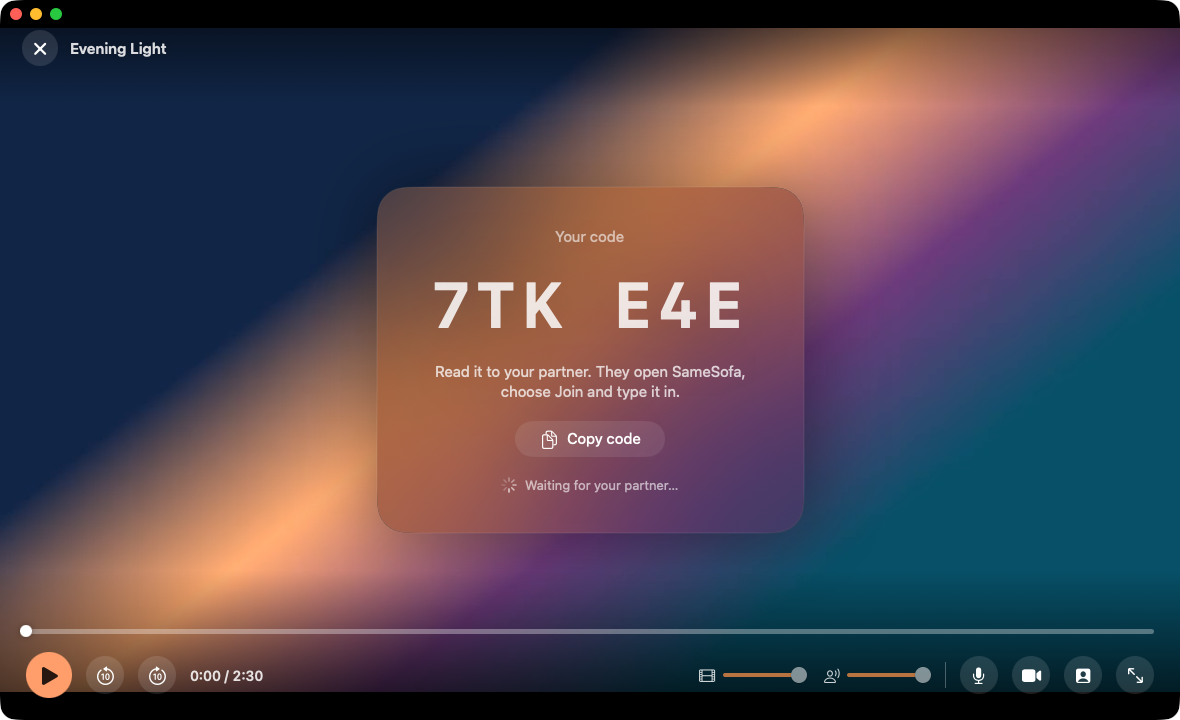
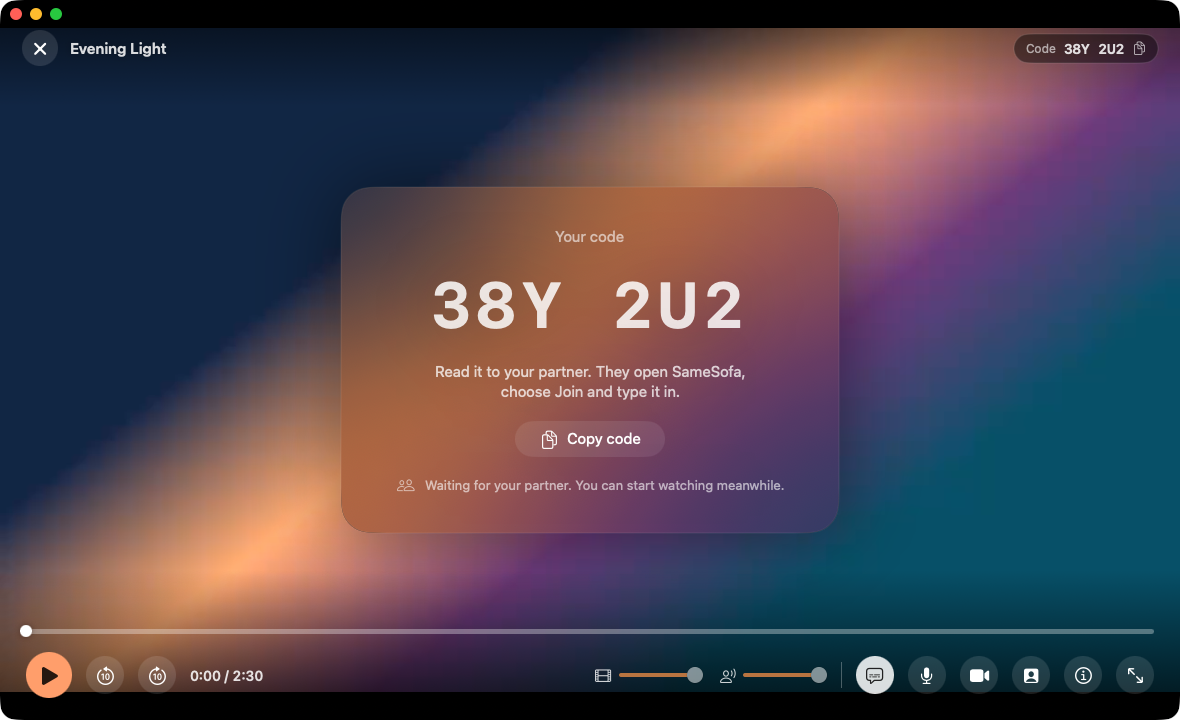
Version 1.2.0: README, screenshots, build script, CI

diff --git a/README.md b/README.md
@@ -17,9 +17,16 @@ hear each other.
 - **Video call bubble** over the film: drag it anywhere, make it bigger or
   smaller, hide it. Mute and camera-off buttons. Controls fade away while the
   film plays.
-- **No echo** of the film through the other person's microphone: the film, the
-  voice and the microphone all go through Apple's voice processing (details
-  below), with separate film and voice volume sliders.
+- **The film at full quality.** Its sound goes straight from the player to the
+  Mac's sound output, bit for bit as decoded; nothing of the call touches it.
+  Surround tracks are folded down by macOS with the standard coefficients.
+- **No echo** of the film through the other person's microphone: with
+  speakers, SameSofa removes the film and your partner's voice from your
+  microphone itself (WebRTC's AEC3, details below); with headphones, detected
+  automatically, that isn't needed. Separate film and voice volume sliders.
+- **Damaged files repaired.** Films whose video timing information is missing
+  (frames would jump back and forth) are fixed on the host before sharing,
+  without re-encoding.
 - **Private by design**: no accounts, no analytics, nothing stored on a server.
 
 ![Joined and ready to play](docs/screenshots/guest-joined.png)
@@ -34,6 +41,11 @@ hear each other.
 | ![Preparing an MKV while the code is shown](docs/screenshots/preparing.png) | ![The guest sees the host's progress](docs/screenshots/guest-preparing.png) |
 
 ![A converted MKV playing with its subtitles](docs/screenshots/playing-subtitles.png)
+
+| | |
+|---|---|
+| ![Watching alone while waiting: the code moves to a chip; the ⓘ button shows what is being played and how](docs/screenshots/quality.png) | ![Acknowledgements](docs/screenshots/acknowledgements.png) |
+| ![Settings](docs/screenshots/settings.png) | ![About](docs/screenshots/about.png) |
 
 *(Screenshots use a generated test film and a generated stand-in camera
 picture.)*
@@ -72,8 +84,10 @@ picture.)*
 - Either of you can press **Play together**, pause, or skip. Move the mouse to
   bring the controls back. Double-click the film (or press **F**) for full
   screen. **Space** plays/pauses, **←/→** skip 10 seconds, **M** mutes you.
-- Watching on laptop speakers works; headphones give the best film sound (see
-  *Settings → Audio*).
+- Speakers and headphones both work and both play the film untouched.
+  *Settings → Audio → Headphones* is on **Automatic**; set it by hand if
+  SameSofa guesses your sound output wrong. The **ⓘ** button in the controls
+  shows what is being played and how.
 
 ---
 
@@ -91,8 +105,8 @@ Each stream is handled on its own:
 
 | Rewrapped (copied, seconds, no quality change) | Converted (re-encoded on the host) |
 |---|---|
-| Video: H.264 (8-bit 4:2:0), HEVC/H.265 Main and Main 10 | Video: MPEG-4 ASP (Xvid, DivX), VP8, VP9, AV1, MPEG-2, MPEG-1, VC-1/WMV, H.263, Theora, MJPEG, H.264 High 10/4:2:2/4:4:4, and anything else FFmpeg reads → H.264, or HEVC for 10-bit/HDR and above 1080p, with the Mac's VideoToolbox encoder at the same size and frame rate |
-| Audio: AAC, AC-3, E-AC-3 (Dolby Digital/Plus), ALAC | Audio: MP3, DTS, Opus, Vorbis, FLAC, TrueHD, PCM, MP2, WMA, … → AAC (stereo 192 kbit/s, 5.1 384 kbit/s; 7.1 is mixed to 5.1) |
+| Video: H.264 (8-bit 4:2:0), HEVC/H.265 Main and Main 10 | Video: MPEG-4 ASP (Xvid, DivX), VP8, VP9, AV1, MPEG-2, MPEG-1, VC-1/WMV, H.263, Theora, MJPEG, H.264 High 10/4:2:2/4:4:4, and anything else FFmpeg reads → H.264, or HEVC for 10-bit/HDR and above 1080p, with the Mac's VideoToolbox encoder at the same size and frame rate, at bit rates chosen to be visually transparent (1080p: 10 Mbit/s H.264, 7.5 Mbit/s HEVC; 4K HEVC: 21 Mbit/s and up; more for 60 fps, 10-bit and HDR; never less than the source used). 10-bit, colour tags and HDR10 metadata are kept |
+| Audio: AAC, AC-3, E-AC-3 (Dolby Digital/Plus), ALAC, FLAC | Audio: MP3, DTS, Opus, Vorbis, MP2, WMA, … → AAC-LC from Apple's encoder (stereo 256 kbit/s, 5.1 448 kbit/s; 7.1 is mixed to 5.1 at 640 kbit/s). Lossless stereo (PCM, TrueHD, DTS-HD MA) → Apple Lossless; lossless surround → AAC at the rates above. Levels are never changed |
 | Subtitles: the first text track (SRT, ASS/SSA, WebVTT) or a same-named `.srt`, as an MP4 text track | |
 
 Measured on a 2020 Mac mini (M1, 16 GB) with 10-minute 1080p24 test films:
@@ -110,6 +124,17 @@ needs rewrapping is ready in well under a minute, and a two-hour 1080p film that
 roughly 14 minutes on an M1 (faster on newer Macs, slower on Intel Macs
 without a recent hardware encoder).
 
+**Damaged timing.** Some MP4/MKV files carry video with B-frames but no
+reordering information (every frame's presentation time equals its decode
+time). FFmpeg-based players hide this; AVFoundation shows the frames in decode
+order, which looks like the picture flickering back and forth. SameSofa
+checks for it when you pick a film (it decodes three short stretches and
+compares the decoder's picture order with the file's times) and repairs it by
+copying the streams with rebuilt presentation times (FFmpeg's `dts2pts`, plus
+exact times for the last few frames, which that filter cannot work out). The
+result is checked again before sharing; if it doesn't hold up, the picture is
+re-encoded instead and the app says so.
+
 Only the default (or first) video and audio track are kept, to keep the
 transfer small. What doesn't work: picture-based subtitles (Blu-ray PGS, DVD
 VobSub), DRM-protected files, and files FFmpeg itself can't read. The host is
@@ -126,8 +151,8 @@ told straight away if a film can't be used.
  │ SyncEngine ◄───────────┼──── clock ping/pong, chunk requests ──────────►│ SyncEngine
  │ FileSender ────────────┼──── file channel: original bytes (64 KiB) ────►│ FileReceiver → sparse temp file
  │                        │                                                 │   → AVAssetResourceLoader → AVPlayer
- │ AudioHub (AVAudioEngine│◄─── WebRTC audio + video (camera, mic) ───────►│ AudioHub
- │  + voice processing)   │        all peer to peer, DTLS/SRTP encrypted    │
+ │ AudioHub (call audio,  │◄─── WebRTC audio + video (camera, mic) ───────►│ AudioHub
+ │  AEC3 on the mic)      │        all peer to peer, DTLS/SRTP encrypted    │
  └──────────▲─────────────┘                                                 └──────────▲─────────────┘
             │  WebSocket: "create room" / "join ABC123" / relay offer, answer, ICE        │
             └──────────────────────► server/ (tiny Node room server) ◄──────────────────┘
@@ -177,20 +202,20 @@ before sharing:
 3. **Convert** with the bundled `ffmpeg` into a temporary MP4. Video is encoded
    by the Mac's own VideoToolbox (hardware) encoder at the source's size and
    frame rate with a keyframe every 2 seconds (so seeks stay quick for the sync
-   engine), audio by FFmpeg's AAC encoder. The app shows real progress (from
+   engine), audio by Apple's AAC encoder (through FFmpeg's `aac_at`) or as
+   Apple Lossless. The app shows real progress (from
    `ffmpeg -progress`) and a Cancel button; the room is already open and the
    guest sees "Your partner's Mac is preparing the film… 43%".
 4. **Share** the MP4 exactly like any other MP4: same transfer, same sync,
-   same echo-cancelled audio path. The temporary file is deleted when the
+   same sound path. The temporary file is deleted when the
    session ends or the app quits, and leftovers from a crash at the next launch.
 
 Why this way round: the transfer, the sync engine and the echo cancellation
-(which takes the film's sound out of AVPlayer with an audio tap) all build on
-AVPlayer. Playing MKV directly with VLCKit or libmpv on both Macs would have
-meant a second sync implementation (their clocks, seeking and rate control
-behave differently), a second way to get the film's audio into the voice
-processing engine, a much larger LGPL/GPL dependency on both sides, and the
-guest would need it too. Converting on the host keeps the guest's side
+(which listens to the film's sound inside AVPlayer) all build on AVPlayer.
+Playing MKV directly with VLCKit or libmpv on both Macs would have meant a
+second sync implementation (their clocks, seeking and rate control behave
+differently), a second way to get at the film's audio, a much larger LGPL/GPL
+dependency on both sides, and the guest would need it too. Converting on the host keeps the guest's side
 unchanged and costs seconds for the common case (MKV with H.264/HEVC + AAC/AC-3
 just gets rewrapped). The price is a wait before sharing when a film has to be
 re-encoded, and some loss of quality in that case (generous bit rates keep it
@@ -218,59 +243,73 @@ Both apps run the same `SyncEngine` (in `Sources/SameSofaCore`, unit tested):
   control channel, minimum-round-trip sample wins).
 - Play is scheduled ~0.35 s in the future and started with
   `AVPlayer.setRate(_:time:atHostTime:)` so both start on the same instant.
-- Every half second each side compares its player with the timeline: gaps under
-  60 ms are ignored; up to 1 s the playback speed is nudged by up to ±4% (pitch
-  preserved) until it catches up; beyond that it seeks.
+- Every half second the guest compares its player with the timeline: gaps under
+  60 ms are ignored; up to 0.35 s its playback speed is nudged by 0.2 to 1 %
+  (plain resampling, at most a sixth of a semitone, so it cannot be heard)
+  until the gap is closed; beyond that it seeks.
+- The host never changes speed. If its own player slips, the timeline moves to
+  where the player is and the guest follows. While nothing drifts, both players
+  run at exactly normal speed.
 - The host sends a heartbeat every second so a missed message is healed.
 
-### Echo cancellation: the approach and its limits
+### The film's sound, and echo cancellation
 
-The problem: both Macs play the film out loud. The guest's microphone hears the
-guest's film and the host's voice, and without care the host would hear their
-own voice and a second, delayed copy of the film.
+**The film** is played by AVPlayer straight to the Mac's sound output: no
+audio engine of SameSofa's, no Apple voice processing, no resampling or level
+change in between, whether or not a call is running. Its audio is set up once
+per film and never touched again (spatial audio is switched off by default so
+that surround and Dolby Atmos tracks are decoded to a plain multichannel
+signal, which macOS folds down for stereo outputs: left and right at full
+level, centre and surrounds at -3 dB, no LFE; *Settings → Audio → Spatial
+audio: System* hands this back to macOS). Earlier versions pulled the film's
+sound out of the player and replayed it through the call's audio engine,
+which is where its quality problems came from.
 
-WebRTC has an echo canceller (AEC3), but on macOS WebRTC opens the speakers and
-microphone itself and only knows about the audio *it* plays (the other person's
-voice). Audio played by AVPlayer is invisible to it, so it cannot remove the
-film. An echo canceller can only remove what it has as a **reference**.
+**The echo problem:** both Macs play the film out loud. The guest's microphone
+hears the guest's film and the host's voice, and without care the host would
+hear their own voice and a second, delayed copy of the film. An echo canceller
+can only remove what it has as a **reference**. WebRTC's own canceller only
+knows the voice it plays; the film, played by AVPlayer, is invisible to it.
 
-So SameSofa routes everything through **one audio engine**:
+So SameSofa runs its own instance of the same canceller and tells it
+everything the speakers play:
 
-- `AudioHub` is a custom WebRTC audio device (WebRTC's `RTCAudioDevice` protocol;
-  the macOS framework implements it but doesn't ship the header, so it is
-  re-declared in `Sources/CWebRTCAudioDevice`). WebRTC hands it the remote voice
-  to play and receives the microphone from it.
-- It runs an `AVAudioEngine` with **Apple's voice processing** enabled on the
-  input node (`setVoiceProcessingEnabled(true)`, the same echo cancellation and
-  noise suppression FaceTime uses).
-- The film's decoded audio is taken out of AVPlayer with an
-  `MTAudioProcessingTap`, AVPlayer's own output is silenced, and the film is
-  played through the same engine. The other person's voice is played there too.
-- Because the voice-processing unit plays both, both are its echo reference and
-  are removed from the microphone before WebRTC sends it. SameSofa also asks
-  WebRTC to switch its own echo cancellation and gain control off, so two
-  cancellers don't fight (whether WebRTC M157 still honours these legacy
-  constraints hasn't been verified; if it doesn't, its canceller simply finds
-  little left to remove).
-- The film and voice volume sliders are mixer volumes in that engine.
+- `AudioHub` is a custom WebRTC audio device (WebRTC's `RTCAudioDevice`
+  protocol; the macOS framework implements it but doesn't ship the header, so
+  it is re-declared in `Sources/CWebRTCAudioDevice`). It plays the other
+  person's voice and records the microphone through a plain `AVAudioEngine`,
+  only while a call is running.
+- Each 10 ms of microphone audio goes through WebRTC's audio processing module
+  (AEC3 echo canceller, noise suppression, gain control; the stand-alone
+  `webrtc-audio-processing` build, linked statically) before WebRTC gets it.
+  WebRTC's built-in processing is switched off.
+- The canceller's reference is the voice being played plus a **copy** of the
+  film's sound: an `MTAudioProcessingTap` listens inside AVPlayer without
+  changing anything (measured bit-exact, see Tests), the copy is folded down
+  to stereo and lined up with the film's clock, so that the reference is what
+  the speakers are playing at that moment, through pauses, seeks and sync
+  nudges. AEC3 finds the remaining delay (speaker and room) itself.
+- With **headphones** (built-in jack, AirPods and other Bluetooth headphones,
+  USB headsets: recognised from the sound output's type) the microphone does
+  not hear the film, the film is left out of the reference and no tap is
+  attached at all. *Settings → Audio → Headphones* overrides the detection.
+- If AirPods are both output and microphone, macOS switches them to telephone
+  quality; SameSofa then records from the Mac's built-in microphone instead,
+  so the film keeps its full quality.
 
 Limits, honestly:
 
-- This could only be tested on a Mac with **no microphone** (the build machine),
-  where voice processing cannot start; there the app falls back automatically
-  and shows "Echo cancellation isn't available on this Mac. Headphones
-  recommended." Real echo-cancellation quality with speakers and a laptop mic
-  has not been measured yet.
-- Voice processing is tuned for speech. Loud film audio at high volume through
-  laptop speakers is the hardest case: expect some residual film or ducking of
-  your voice in very loud scenes. If that's annoying, use headphones.
-- With voice processing on, macOS may play the film in a slightly reduced
-  quality mode (it is a "voice chat" audio path). **Settings → Audio →
-  Headphones** turns voice processing off for full-quality film sound; then
-  headphones are needed to avoid echo.
-- The film's sound goes through a small buffer (~50 ms or less) on its way to
-  the engine, so it can lag the picture by a few tens of milliseconds.
-- Surround tracks are mixed down to stereo (dialogue kept in the middle).
+- The build machine has **no microphone**. The canceller was measured in an
+  offline simulation (film through a synthetic room into the "microphone",
+  plus a person talking: see Tests), not with real speakers and a real
+  microphone. Expect it to behave like a browser video call that has music
+  playing on the same computer.
+- Loud film sound through laptop speakers while you talk is the hardest case:
+  the canceller then also takes a little off your voice. Headphones avoid it.
+- A film's echo that the canceller cannot model (very reverberant rooms,
+  speakers far from the microphone, a Bluetooth speaker with a long delay)
+  comes through faintly.
+- Real Dolby Atmos content could not be tested (FFmpeg cannot create it).
 
 ### The room server
 
@@ -375,7 +414,7 @@ SAMESOFA_SERVER_URL=wss://sofa.example.org scripts/build.sh   # bake in your ser
 ```
 
 `scripts/build.sh` downloads WebRTC (checksum verified) into `Vendor/`, builds
-the FFmpeg helper (below), builds with SwiftPM, assembles `build/SameSofa.app`
+the echo canceller library and the FFmpeg helper (below), builds with SwiftPM, assembles `build/SameSofa.app`
 (Info.plist with camera and microphone usage strings, WebRTC.framework and the
 FFmpeg helper embedded) and signs it:
 
@@ -385,6 +424,13 @@ FFmpeg helper embedded) and signs it:
   Apple Developer account, which removes the "Open Anyway" step;
 - otherwise it **ad-hoc** signs (fine for personal use, needs the Gatekeeper
   step above).
+
+**The echo canceller.** `scripts/build-apm.sh` (run by `build.sh`; run it
+once yourself before `swift build` or `swift test`) downloads
+webrtc-audio-processing 2.1 (pinned, SHA-256 checked; its Abseil dependency
+comes from the pinned meson wrap inside), and builds it for arm64 and x86_64
+into `Vendor/APM` as one static library (about a minute, once). It needs
+`brew install meson ninja`.
 
 **The FFmpeg helper.** `scripts/build-ffmpeg.sh` (run by `build.sh`) downloads
 FFmpeg 8.1.3 and dav1d 1.5.4 (pinned, SHA-256 checked), and builds them for
@@ -397,7 +443,8 @@ scripts/build.sh` leaves the helper out; that build can only host MP4/MOV.
 ### Tests
 
 ```sh
-swift test                          # sync engine, clock sync, chunk scheduling, byte-exact reassembly
+scripts/build-apm.sh                # once: the echo canceller library the package links
+swift test                          # sync engine, conversion planner, timestamp repair logic, sound routing
 (cd server && npm ci && npm test)   # room server
 ```
 
@@ -417,8 +464,14 @@ swift build --product samesofa-itest
 It checks: room by code (typed in lower case with a dash), video and audio both
 ways, guest playback without having the file, clock-offset discovery (the guest
 pretends its clock is 1234.567 s off), play/pause/seek from both sides, recovery
-from a forced 0.7 s and 4 s drift, drift under 0.25 s for the soak period, the
-received file being byte-identical (SHA-256), and leaving/rejoining. The
+from a forced drift (0.2 s closed by a speed change of at most 1 %, 0.7 s and
+4 s by seeking), drift under 0.25 s for the soak period, that the host never
+changes speed, that each film's sound is set up exactly once, that muting,
+the headphones setting, the volume and a change of sound devices leave the
+film untouched (same speed, no break in its sound, no shift against the
+timeline), the received file being byte-identical (SHA-256), and
+leaving/rejoining. `--live-audio 1` runs the host with the real call audio
+engine (silent) instead of the synthetic one. The
 `--throttle` run caps the host's upload below the film's bitrate and checks that
 both sides pause when the guest runs dry and resume together.
 
@@ -450,19 +503,50 @@ on GitHub's macOS runners. It is manual-only at the moment because GitHub
 Actions isn't available for the account; the comment in the file shows how to
 switch it back to running on every push.
 
-`.build/debug/samesofa-itest --audio-check` starts the real voice-processing
-audio engine at zero volume and reports whether it runs on that Mac.
+Damaged timestamps: builds H.264 and HEVC clips with B-frames whose picture
+carries the frame number, strips their presentation times (`pts = dts`), and
+checks detection, the repair (every frame back at its original time, read
+back from the picture as AVFoundation presents it; sound unmoved), the
+fallback to re-encoding, and that healthy films raise no alarm:
+
+```sh
+.build/debug/samesofa-itest --timestamp-suite /tmp/ts --reference-ffmpeg "$(which ffmpeg)" --healthy film1.mkv,film2.mp4
+```
+
+The film's sound path, without playing a sound: plays each file with a real
+AVPlayer (muted), compares what the player goes on to play with the decoded
+source (it must be bit-exact, with no dropped or repeated samples, the film's
+clock steady and the sound set up once), renders the same tap offline through
+AVFoundation's stereo fold-down, and shows what SameSofa 1.1.0 did to the
+same channels. The last step, the Mac's sound output itself, cannot be
+captured without a loopback device:
+
+```sh
+.build/debug/samesofa-itest --audio-measure a.m4a,b.mp4 --seconds 60 --reference-ffmpeg "$(which ffmpeg)"
+```
+
+The echo canceller, simulated offline (film through a synthetic room into the
+microphone, plus a talker; reports how much of the film is removed and how
+much of the talker survives):
+
+```sh
+.build/debug/samesofa-itest --echo-sim film.wav,talker.wav     # 48 kHz stereo film, 48 kHz talker
+```
+
+`.build/debug/samesofa-itest --audio-check 1` starts the real call audio
+engine at zero volume and reports whether it runs on that Mac, the sound
+output it found and whether it counts as headphones.
 
 ### Layout
 
 ```
-Sources/SameSofaCore      protocol messages, sync engine, clock sync, chunk map/scheduler, film conversion planner (pure Swift, unit tested)
+Sources/SameSofaCore      protocol messages, sync engine, clock sync, chunk map/scheduler, film conversion planner, timestamp checks, sound routing (pure Swift, unit tested)
 Sources/SameSofaKit       WebRTC call, data channels, file sender/receiver, playback controller, audio engine, FFmpeg helper runner
 Sources/SameSofa          the SwiftUI app
 Sources/samesofa-itest    end-to-end test runner
-Sources/CWebRTCAudioDevice, CAudioTap   small C/Objective-C headers and shims
+Sources/CWebRTCAudioDevice, CAudioTap, CEchoCanceller   small C/Objective-C/C++ headers and shims
 server/                   room server (Node + ws), tests, Dockerfile, systemd unit
-scripts/                  build.sh, fetch-webrtc.sh, build-ffmpeg.sh, make-icon.swift; dev/ test-film and screenshot helpers
+scripts/                  build.sh, fetch-webrtc.sh, build-apm.sh, build-ffmpeg.sh, make-icon.swift; dev/ test-film and screenshot helpers
 ```
 
 ---
@@ -473,7 +557,18 @@ scripts/                  build.sh, fetch-webrtc.sh, build-ffmpeg.sh, make-icon.
   different countries, slow or lossy uplinks, and long (2-hour, multi-GB) films
   have not been exercised end to end. The throttled test simulates a slow
   uplink; real networks will add jitter.
-- Echo cancellation with real speakers and microphones is untested (see above).
+- Echo cancellation with real speakers and microphones is untested (simulated
+  only, see above), as are headphone detection on real devices and the switch
+  to the built-in microphone with Bluetooth headphones.
+- Frame-rate matching is a request to the display: on variable-refresh displays
+  (ProMotion, adaptive sync) macOS can follow it, on a display fixed at 60 Hz a
+  24 fps film still alternates between two and three refreshes per frame. The
+  build machine's display is fixed at 60 Hz, so the effect on a ProMotion
+  display is untested. SameSofa does not switch display modes.
+- Real Dolby Atmos (E-AC-3 JOC) content was not available for testing.
+- The timestamp repair handles the plain form of the defect (presentation time
+  equal to decode time); other kinds of damaged timing fall back to
+  re-encoding the picture.
 - The real camera path (`RTCCameraVideoCapturer`) is untested here (no camera on
   the build machine); tests and screenshots use a synthetic camera.
 - The film transfer and the video call share the host's upload. On a slow
@@ -505,7 +600,9 @@ scripts/                  build.sh, fetch-webrtc.sh, build-ffmpeg.sh, make-icon.
 |---|---|---|
 | [WebRTC](https://webrtc.org) M157, prebuilt by [stasel/WebRTC](https://github.com/stasel/WebRTC) | BSD-3-Clause (+ WebRTC patent grant) | calls, data channels (embedded `WebRTC.framework`) |
 | `RTCAudioDevice.h` copied from WebRTC | BSD-3-Clause | custom audio device protocol |
-| [FFmpeg](https://ffmpeg.org) 8.1.3 | LGPL-2.1-or-later | converting MKV/AVI/… on the host (separate helper programs) |
+| [webrtc-audio-processing](https://www.freedesktop.org/software/pulseaudio/webrtc-audio-processing/) 2.1 | BSD-3-Clause | echo cancellation, noise suppression, gain control for the microphone (linked statically) |
+| [Abseil](https://abseil.io) | Apache-2.0 | support library of the audio processing (linked statically) |
+| [FFmpeg](https://ffmpeg.org) 8.1.3 | LGPL-2.1-or-later | converting and repairing films on the host (separate helper programs) |
 | [dav1d](https://code.videolan.org/videolan/dav1d) 1.5.4 | BSD-2-Clause | AV1 decoding, inside the FFmpeg helper |
 | [ws](https://github.com/websockets/ws) | MIT | room server WebSocket |
 | Apple SF Symbols | Apple's terms, via the system | icons in the app |

diff --git a/CONTRIBUTING.md b/CONTRIBUTING.md
@@ -1,7 +1,7 @@
 # Contributing
 
 Thanks for helping. Bug reports, fixes and improvements are welcome as GitHub
-issues and pull requests. Please run `swift test` and `(cd server && npm test)`
+issues and pull requests. Please run `swift test` (after `scripts/build-apm.sh`, once) and `(cd server && npm test)`
 before sending a pull request.
 
 ## Licence of contributions (the one rule that matters)
